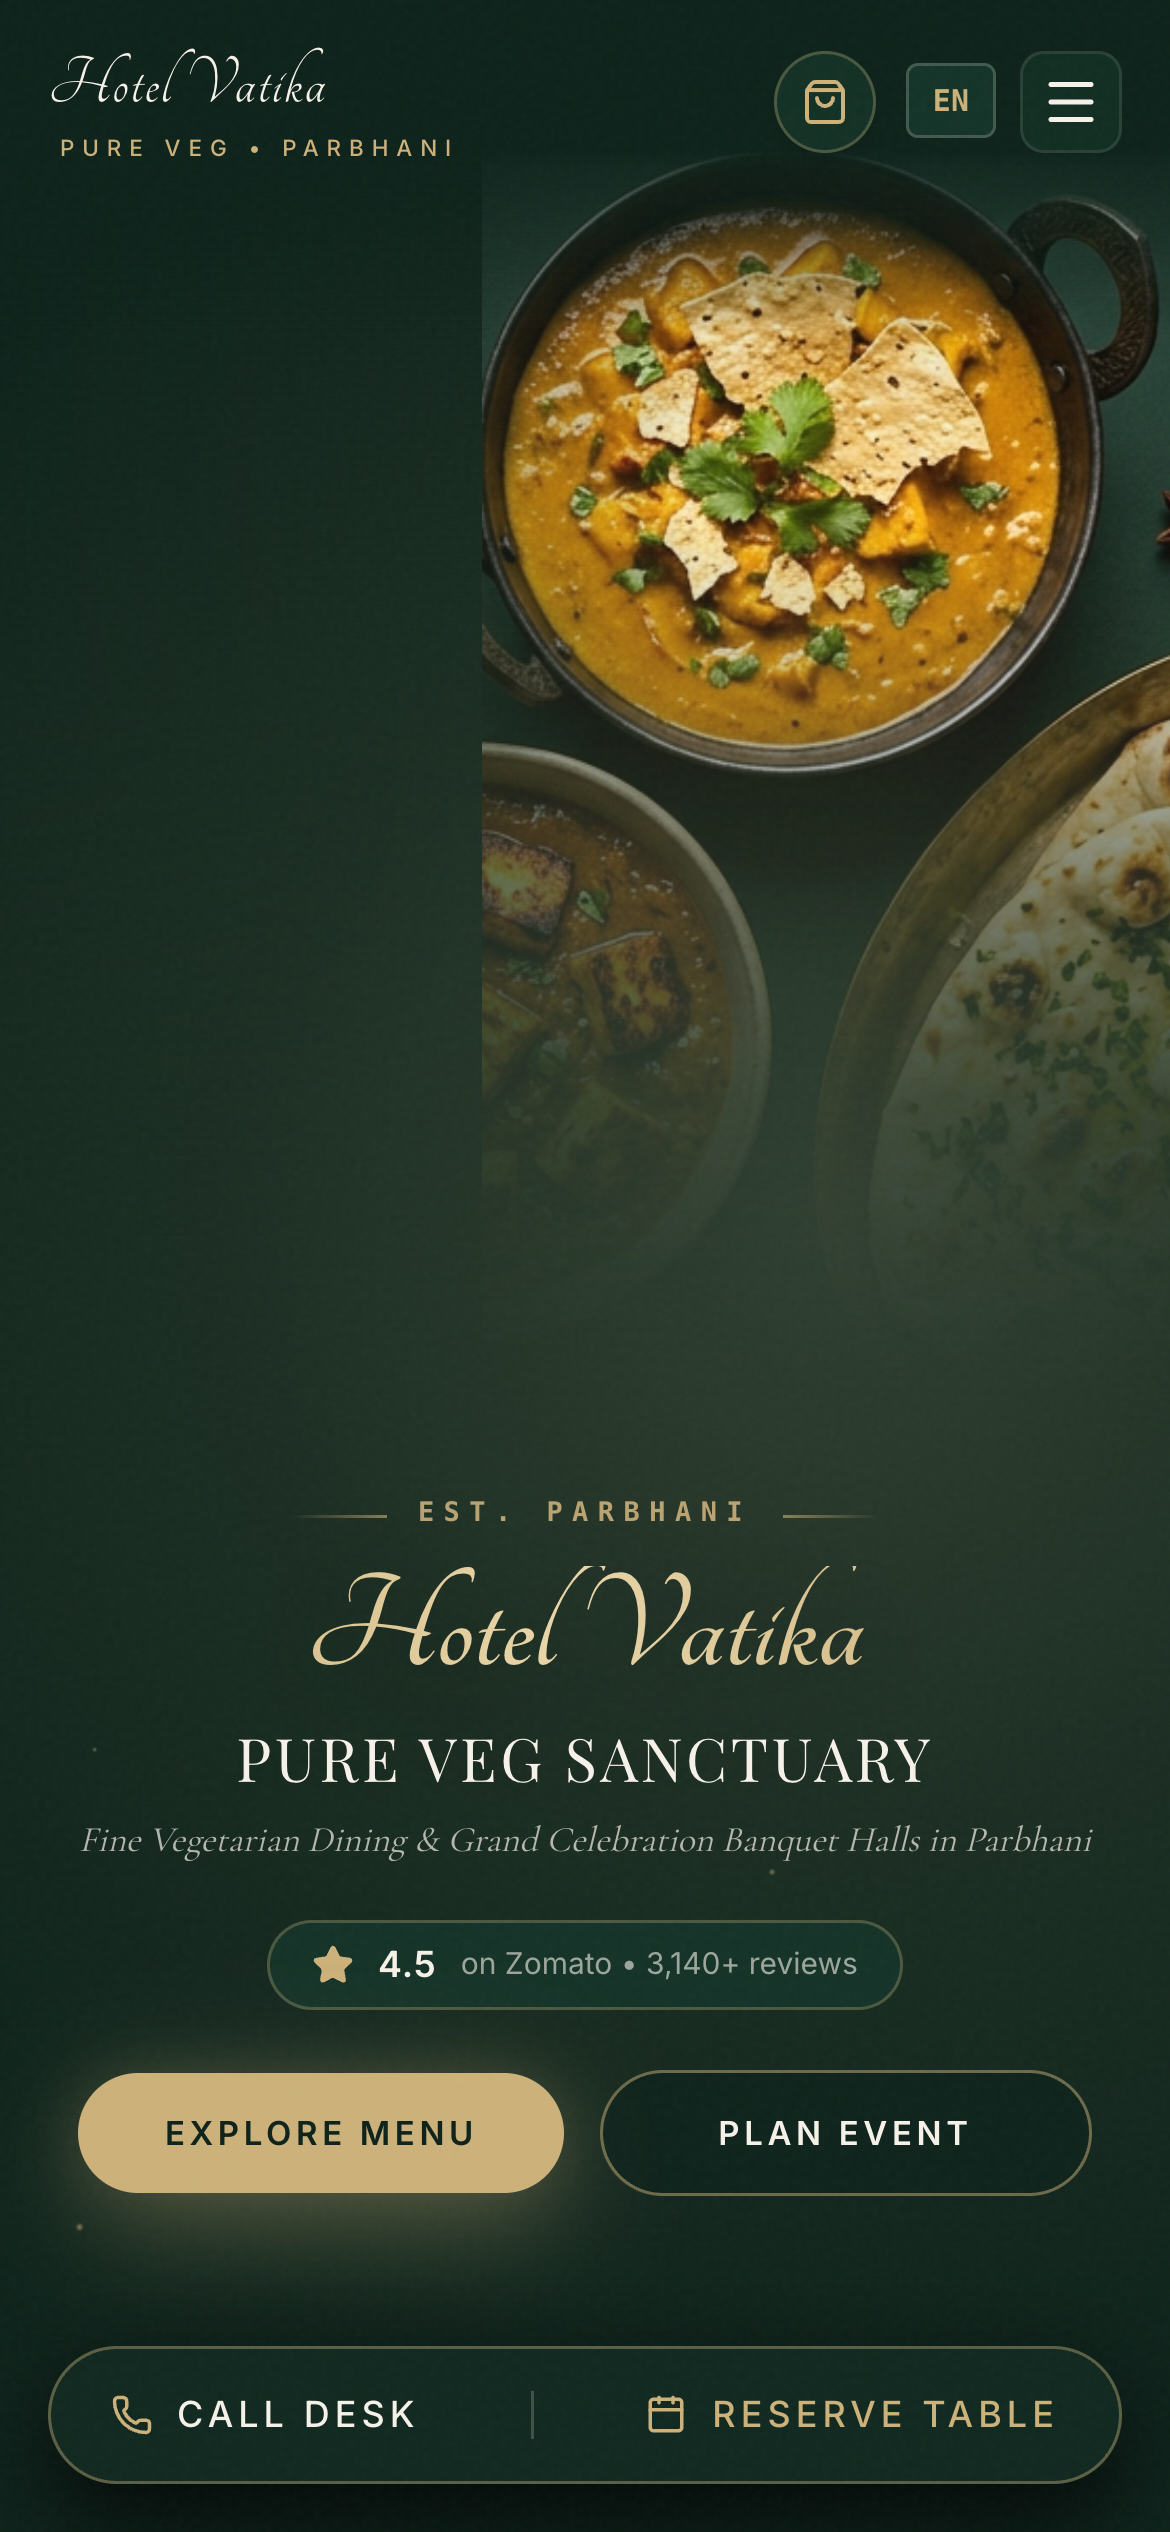
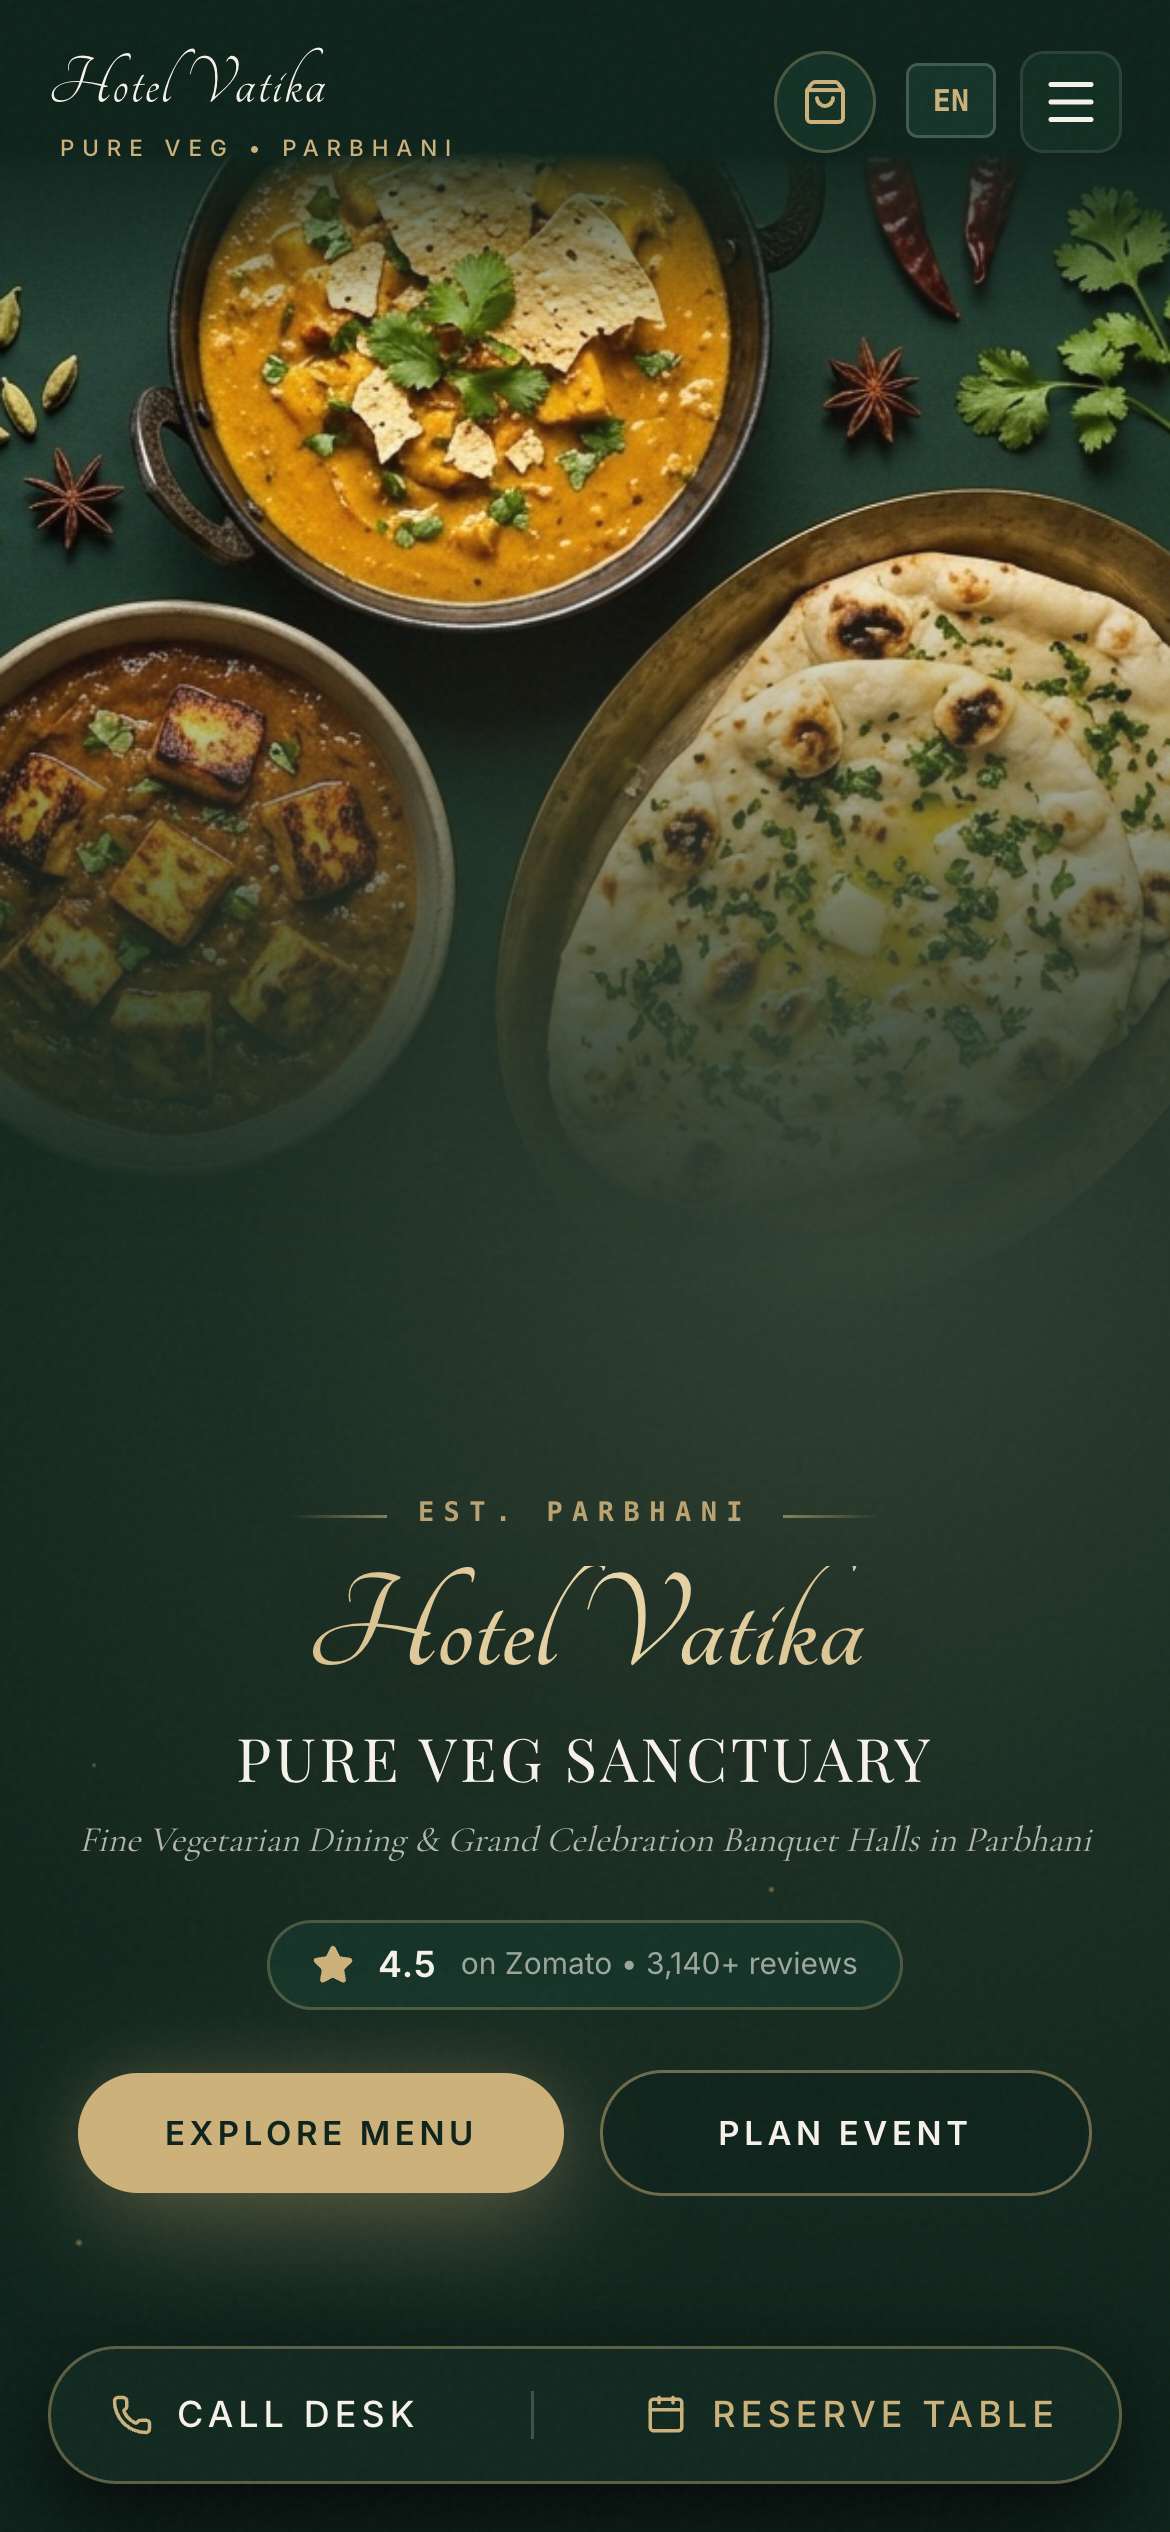
fix(mobile-hero): 100% full-width edge-to-edge feast photo with clean dishes

Changed region(s): [[0.0, 0.0624, 1.0, 0.4368]]

diff --git a/src/components/hero/HeroScrollTriggerCinema.tsx b/src/components/hero/HeroScrollTriggerCinema.tsx
@@ -176,38 +176,30 @@ export const HeroScrollTriggerCinema: React.FC<HeroScrollTriggerCinemaProps> = (
           />
         </div>
 
-        {/* ── Mobile/Tablet: Immersive Full-Bleed Top Backdrop (Seamless fade down) ── */}
+        {/* ── Mobile/Tablet: Immersive 100% Full-Width Clean Feast Backdrop ── */}
         <div
-          className="lg:hidden absolute top-0 inset-x-0 h-[58vh] sm:h-[62vh] pointer-events-none overflow-hidden"
+          className="lg:hidden absolute top-0 inset-x-0 w-full h-[54vh] sm:h-[58vh] pointer-events-none overflow-hidden"
           style={{
             maskImage:
-              "linear-gradient(to bottom, black 0%, black 48%, rgba(0,0,0,0.7) 68%, rgba(0,0,0,0.2) 86%, transparent 100%)",
+              "linear-gradient(to bottom, black 0%, black 52%, rgba(0,0,0,0.7) 72%, rgba(0,0,0,0.2) 88%, transparent 100%)",
             WebkitMaskImage:
-              "linear-gradient(to bottom, black 0%, black 48%, rgba(0,0,0,0.7) 68%, rgba(0,0,0,0.2) 86%, transparent 100%)",
+              "linear-gradient(to bottom, black 0%, black 52%, rgba(0,0,0,0.7) 72%, rgba(0,0,0,0.2) 88%, transparent 100%)",
           }}
         >
+          {/* Clean full-bleed food spread without any baked-in text */}
           {/* eslint-disable-next-line @next/next/no-img-element */}
           <img
-            src="/assets/photos/hero-overhead-feast.jpg"
-            alt="Royal Overhead Feast — Hotel Vatika"
-            className="w-full h-full object-cover object-[78%_38%] scale-110"
-            style={{ clipPath: "inset(12% 0 0 42%)" }}
+            src="/assets/photos/hero-mobile-clean.jpg"
+            alt="Hotel Vatika Royal Overhead Feast — Paneer Angara, Handi & Garlic Naan"
+            className="w-full h-full object-cover object-center"
           />
 
-          {/* Emerald color wash to fuse photo background with #0D221A */}
+          {/* Smooth bottom emerald gradient fade into the page surface */}
           <div
             className="absolute inset-0 pointer-events-none"
             style={{
               background:
-                "linear-gradient(to bottom, rgba(13,34,26,0.2) 0%, transparent 35%, rgba(13,34,26,0.8) 75%, #0D221A 100%)",
-            }}
-          />
-          {/* Left-edge feathering to soften the vertical boundary */}
-          <div
-            className="absolute inset-y-0 left-0 w-3/5 pointer-events-none"
-            style={{
-              background:
-                "linear-gradient(to right, #0D221A 0%, rgba(13,34,26,0.85) 40%, rgba(13,34,26,0.3) 70%, transparent 100%)",
+                "linear-gradient(to bottom, rgba(13,34,26,0.1) 0%, transparent 40%, rgba(13,34,26,0.75) 75%, #0D221A 100%)",
             }}
           />
         </div>
